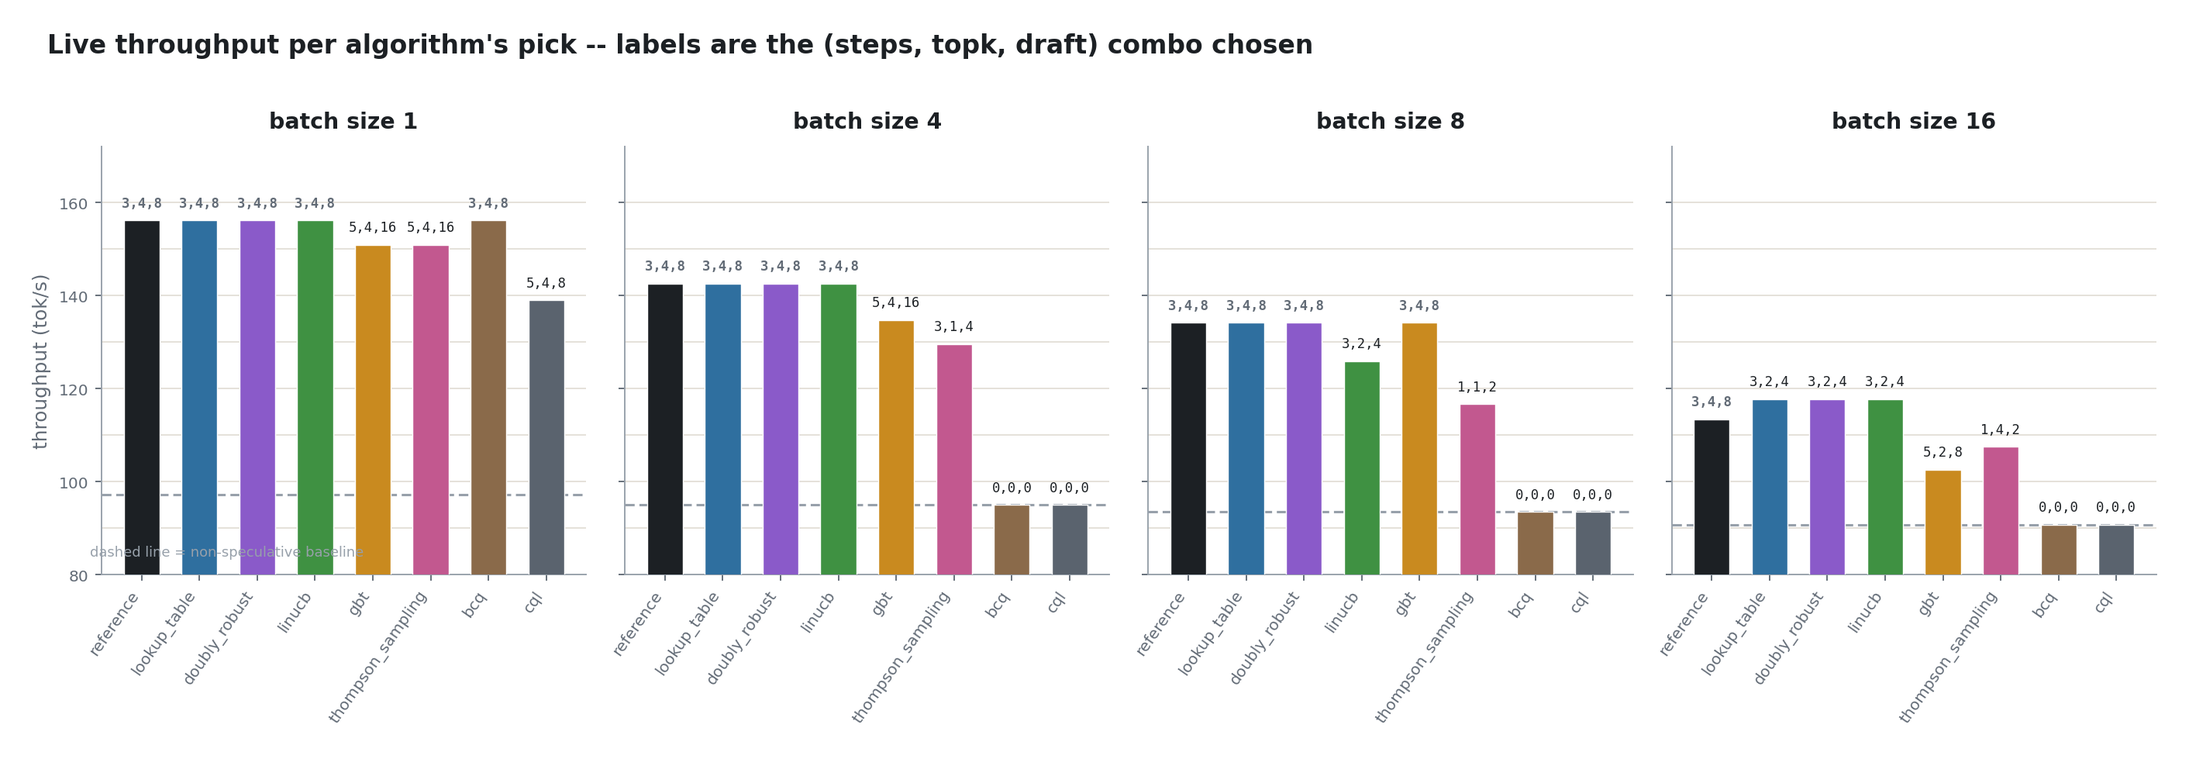
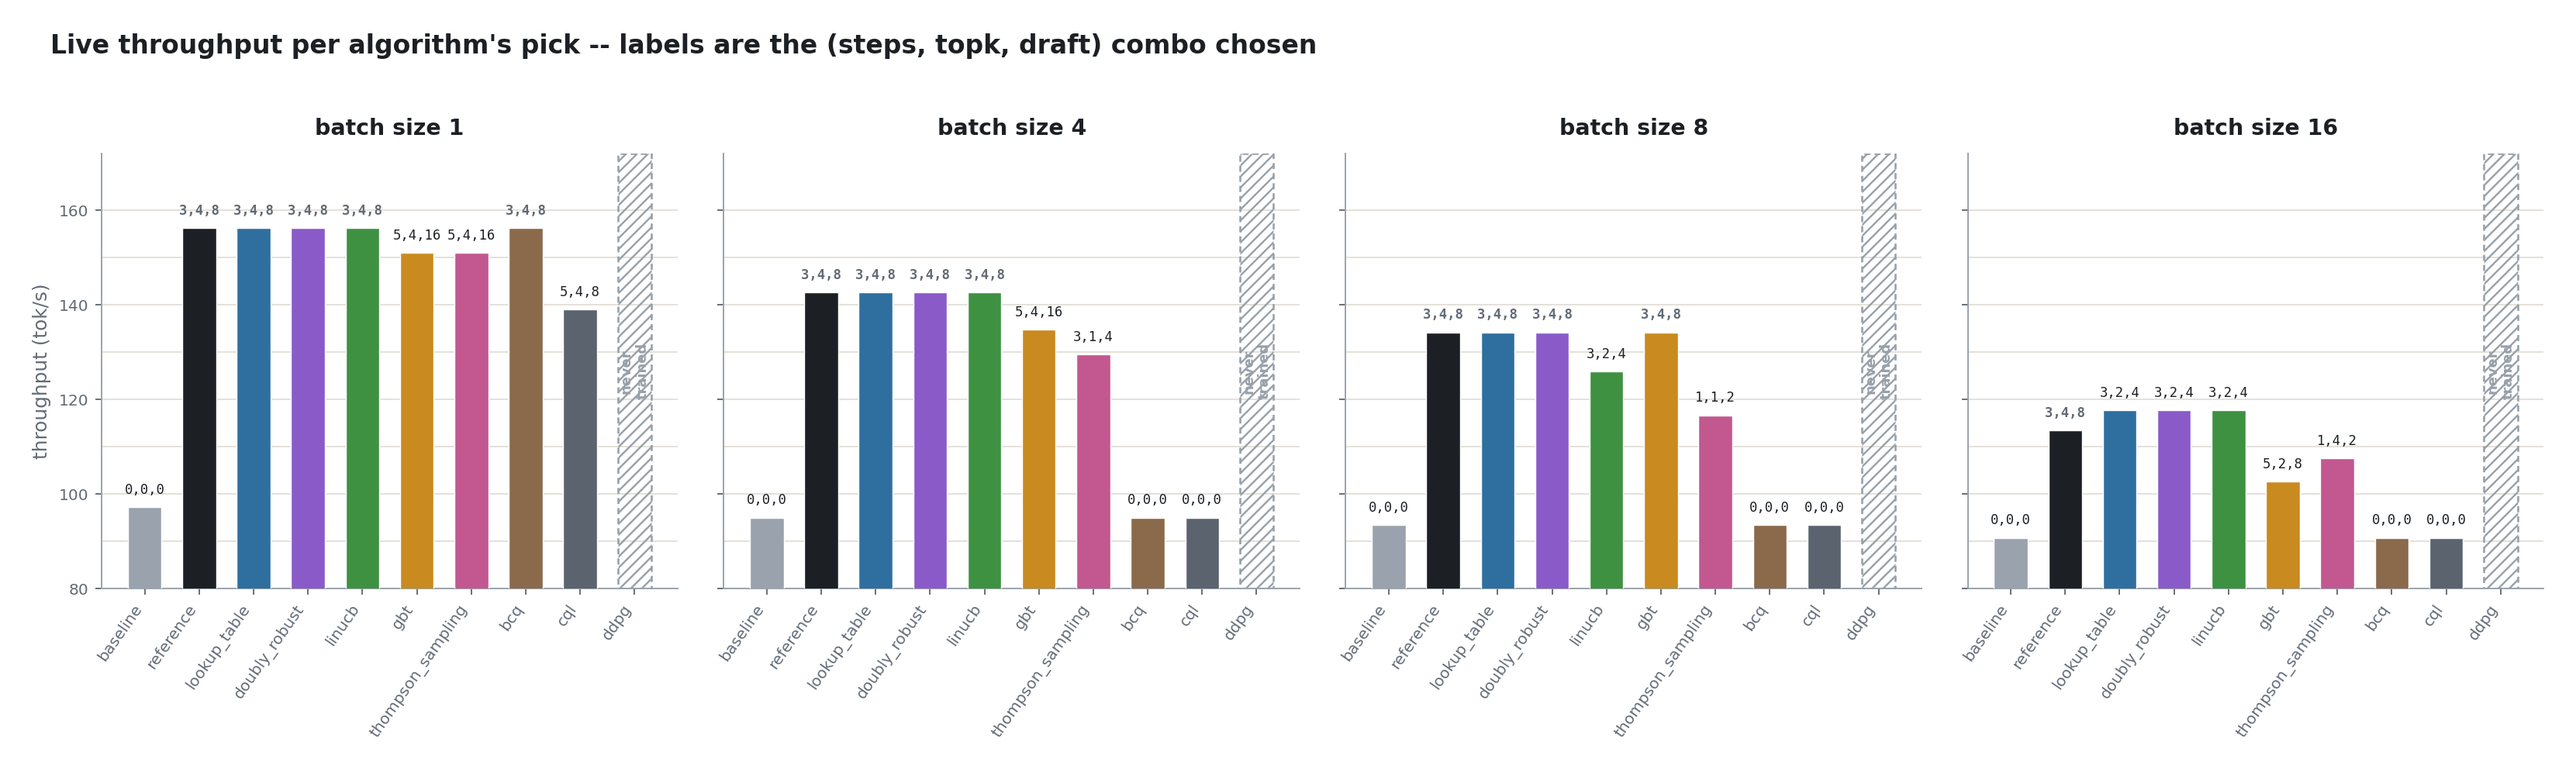
Add explicit baseline bar and a never-trained DDPG marker to the throughput chart

diff --git a/RL/algos/results/plot_tps.py b/RL/algos/results/plot_tps.py
@@ -20,7 +20,9 @@ SPEED = {
 }
 
 REFERENCE = (3, 4, 8)
+BASELINE = (0, 0, 0)
 picks = {
+    "baseline": {1: (0, 0, 0), 4: (0, 0, 0), 8: (0, 0, 0), 16: (0, 0, 0)},
     "reference": {1: (3, 4, 8), 4: (3, 4, 8), 8: (3, 4, 8), 16: (3, 4, 8)},
     "lookup_table": {1: (3, 4, 8), 4: (3, 4, 8), 8: (3, 4, 8), 16: (3, 2, 4)},
     "doubly_robust": {1: (3, 4, 8), 4: (3, 4, 8), 8: (3, 4, 8), 16: (3, 2, 4)},
@@ -29,44 +31,48 @@ picks = {
     "thompson_sampling": {1: (5, 4, 16), 4: (3, 1, 4), 8: (1, 1, 2), 16: (1, 4, 2)},
     "bcq": {1: (3, 4, 8), 4: (0, 0, 0), 8: (0, 0, 0), 16: (0, 0, 0)},
     "cql": {1: (5, 4, 8), 4: (0, 0, 0), 8: (0, 0, 0), 16: (0, 0, 0)},
+    "ddpg": None,  # never trained -- no config was ever picked, drawn as a void column
 }
-order = ["reference", "lookup_table", "doubly_robust", "linucb", "gbt", "thompson_sampling", "bcq", "cql"]
+order = ["baseline", "reference", "lookup_table", "doubly_robust", "linucb",
+         "gbt", "thompson_sampling", "bcq", "cql", "ddpg"]
 colors = {
-    "reference": INK, "lookup_table": "#2f6f9f", "doubly_robust": "#8a5ac9",
+    "baseline": "#9aa3ad", "reference": INK, "lookup_table": "#2f6f9f", "doubly_robust": "#8a5ac9",
     "linucb": "#3f9142", "gbt": "#c98a1f", "thompson_sampling": "#c2588f",
     "bcq": "#8a6a4a", "cql": "#5a636e",
 }
 batch_sizes = [1, 4, 8, 16]
+YLO, YHI = 80, 172
 
-fig, axes = plt.subplots(1, 4, figsize=(16.5, 5.6), facecolor="white", sharey=True)
-fig.subplots_adjust(wspace=0.08, left=0.045, right=0.99, top=0.82, bottom=0.24)
+fig, axes = plt.subplots(1, 4, figsize=(19.5, 5.9), facecolor="white", sharey=True)
+fig.subplots_adjust(wspace=0.08, left=0.04, right=0.99, top=0.82, bottom=0.26)
 
 for ax, bs in zip(axes, batch_sizes):
     ax.set_facecolor("white")
     for y in [90, 100, 110, 120, 130, 140, 150, 160]:
         ax.axhline(y, color=GRID, linewidth=0.8, zorder=0)
 
-    baseline_speed = SPEED[(bs, 0, 0, 0)]
-    ax.axhline(baseline_speed, color=INK_FAINT, linewidth=1.3, linestyle=(0, (4, 2)), zorder=1)
-
     xs = list(range(len(order)))
-    heights = [SPEED[(bs, *picks[name][bs])] for name in order]
-    bar_colors = [colors[name] for name in order]
-    bars = ax.bar(xs, heights, color=bar_colors, width=0.62, zorder=3,
-                   edgecolor="white", linewidth=0.6)
-
-    for x, name, h in zip(xs, order, heights):
+    for x, name in zip(xs, order):
+        if name == "ddpg":
+            ax.bar(x, YHI - YLO, bottom=YLO, width=0.62, facecolor="none",
+                    edgecolor=INK_FAINT, linewidth=1.1, linestyle=(0, (3, 2)),
+                    hatch="////", zorder=3)
+            ax.text(x, (YLO + YHI) / 2, "never\ntrained", ha="center", va="center",
+                     fontsize=7.6, color=INK_FAINT, rotation=90, fontweight="bold")
+            continue
         cfg = picks[name][bs]
+        h = SPEED[(bs, *cfg)]
+        ax.bar(x, h, color=colors[name], width=0.62, zorder=3, edgecolor="white", linewidth=0.6)
         label = f"{cfg[0]},{cfg[1]},{cfg[2]}"
         weight = "bold" if cfg == REFERENCE else "normal"
-        color = INK_MUTED if cfg == REFERENCE else INK
+        tcolor = INK_MUTED if cfg == REFERENCE else INK
         ax.text(x, h + 2.2, label, ha="center", va="bottom", fontsize=7.3,
-                 family="monospace", color=color, fontweight=weight, rotation=0)
+                 family="monospace", color=tcolor, fontweight=weight)
 
     ax.set_xticks(xs)
     ax.set_xticklabels(order, rotation=55, ha="right", fontsize=8.3, color=INK_MUTED)
     ax.set_title(f"batch size {bs}", fontsize=12, fontweight="bold", color=INK, pad=10)
-    ax.set_ylim(80, 172)
+    ax.set_ylim(YLO, YHI)
     for spine in ["top", "right"]:
         ax.spines[spine].set_visible(False)
     for spine in ["left", "bottom"]:
@@ -74,8 +80,6 @@ for ax, bs in zip(axes, batch_sizes):
     ax.tick_params(colors=INK_MUTED, labelsize=8.5)
 
 axes[0].set_ylabel("throughput (tok/s)", color=INK_MUTED, fontsize=10.5)
-axes[0].text(-0.9, 84, "dashed line = non-speculative baseline",
-             fontsize=7.6, color=INK_FAINT, rotation=0, ha="left")
 
 fig.suptitle("Live throughput per algorithm's pick -- labels are the (steps, topk, draft) combo chosen",
              fontsize=14, fontweight="bold", color=INK, x=0.02, ha="left", y=0.975)
